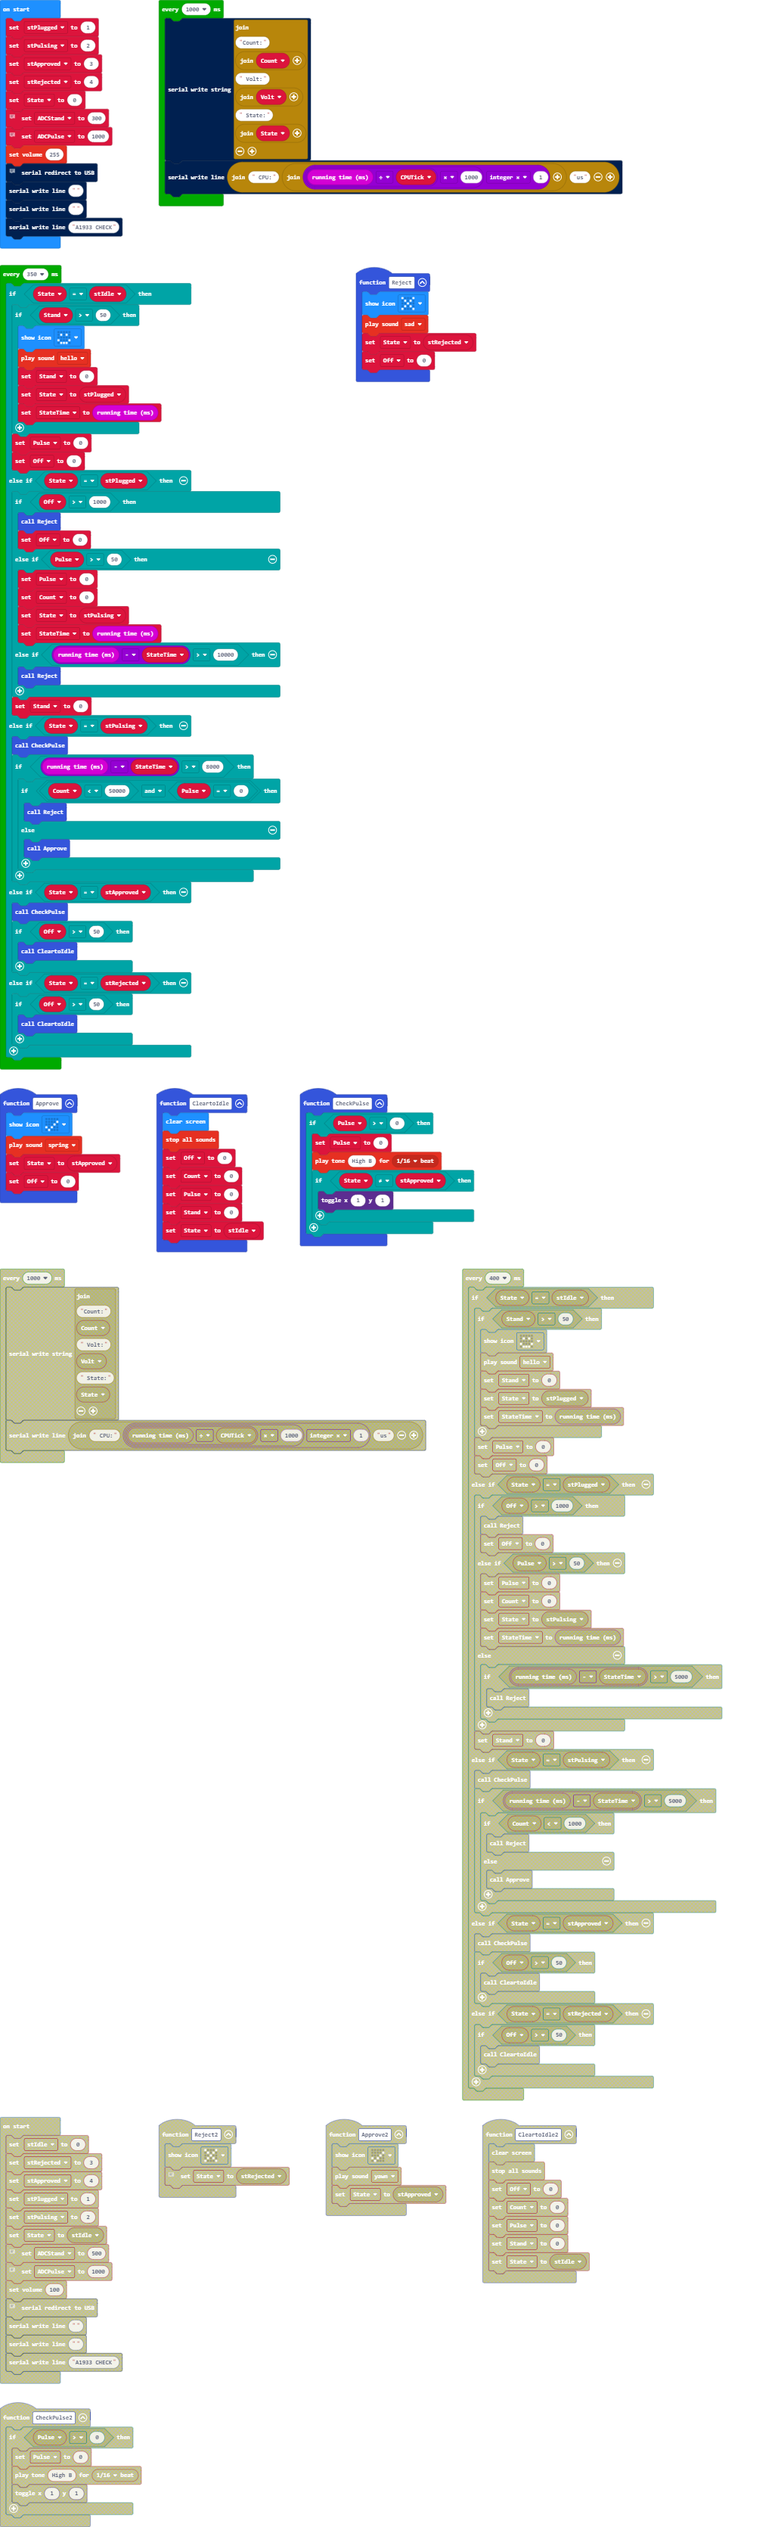
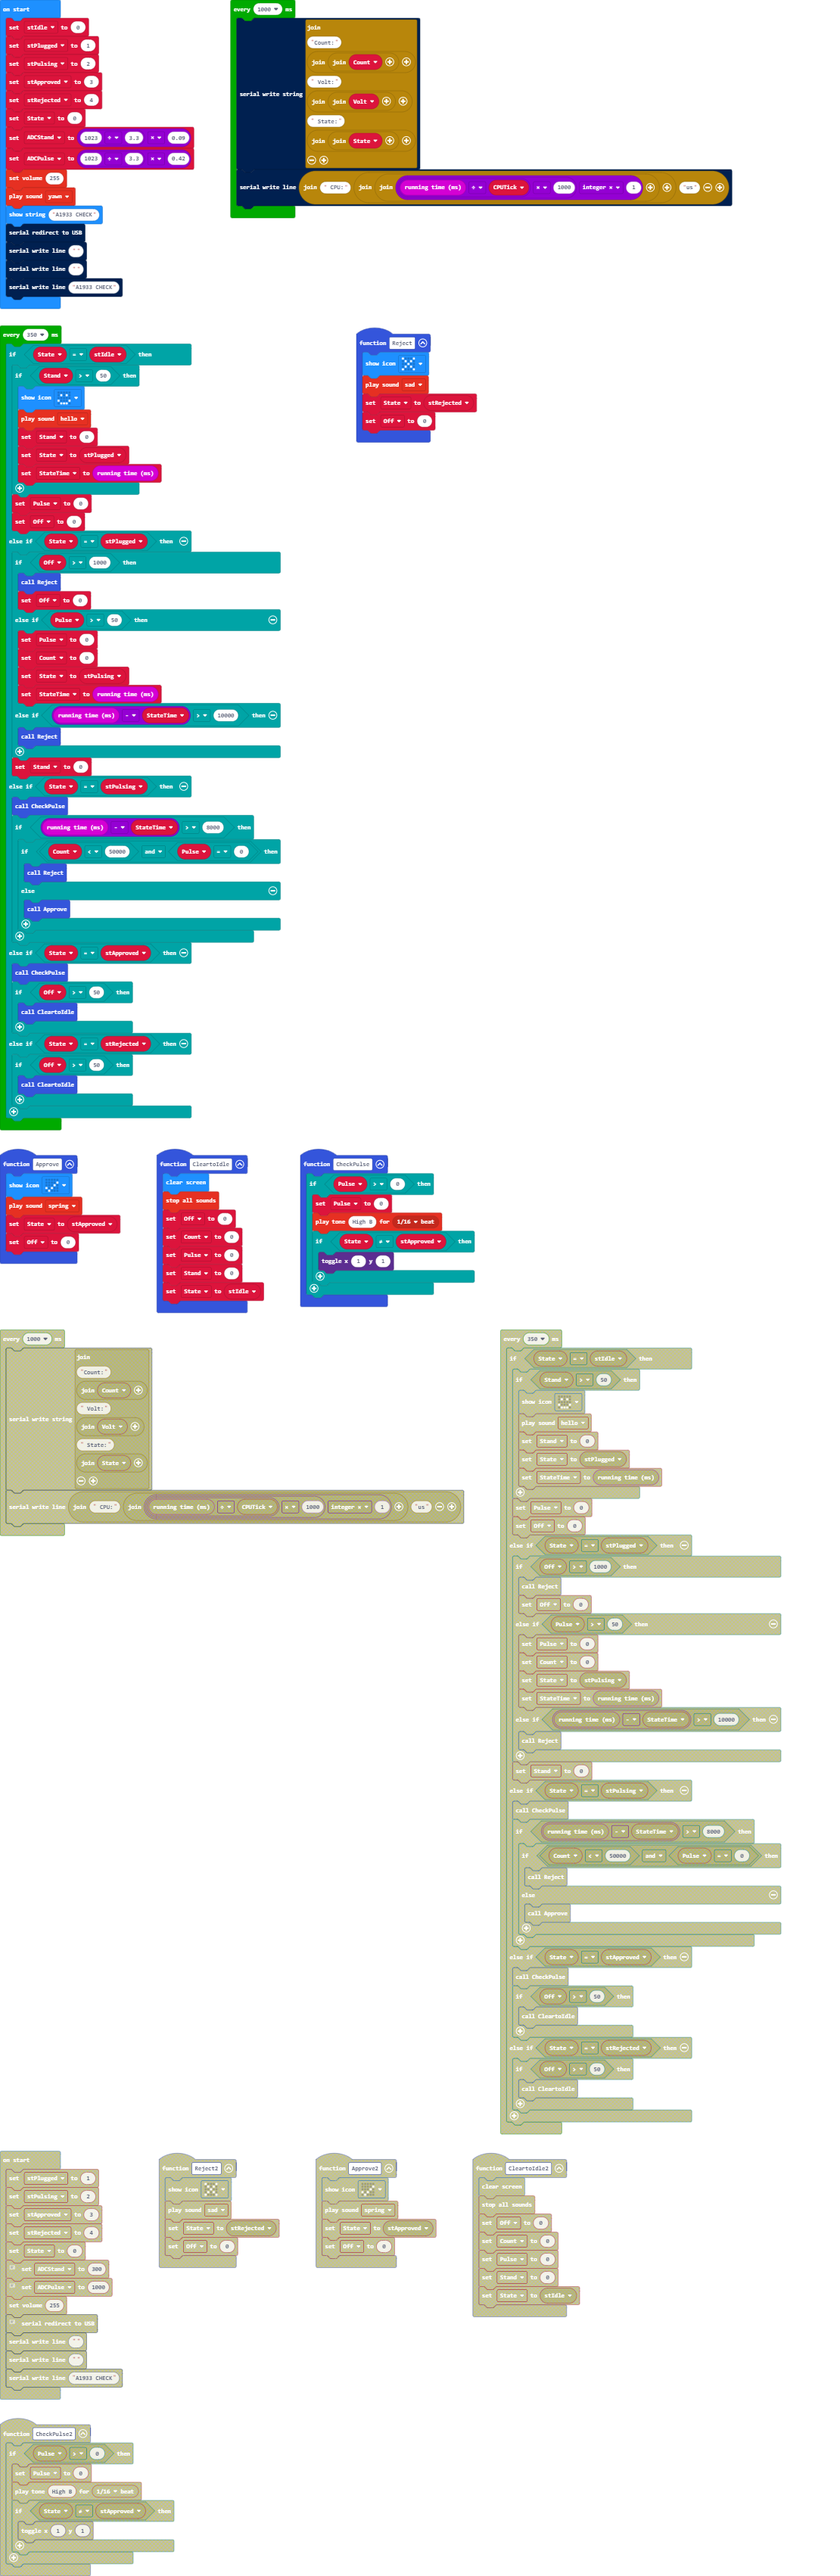
Update main.blocks, main.ts, main.py

Changed region(s): [[0.0, 0.0, 0.9293, 0.903], [0.0, 0.8096, 0.2168, 1.0]]

diff --git a/main.ts b/main.ts
@@ -34,7 +34,6 @@ function CheckPulse () {
 let StateTime = 0
 let CPUTick = 0
 let Volt = 0
-let stIdle = 0
 let Stand = 0
 let Pulse = 0
 let Count = 0
@@ -42,17 +41,18 @@ let Off = 0
 let State = 0
 let stRejected = 0
 let stApproved = 0
+let stIdle = 0
+stIdle = 0
 let stPlugged = 1
 let stPulsing = 2
 stApproved = 3
 stRejected = 4
 State = 0
-// 1023 / 3.3 * 0.6
-let ADCStand = 300
-// 1023 / 3.3 * 2
-let ADCPulse = 1000
+let ADCStand = 1023 / 3.3 * 0.09
+let ADCPulse = 1023 / 3.3 * 0.42
 music.setVolume(255)
-// basic.showString("A1933 CHECK")
+soundExpression.yawn.play()
+basic.showString("A1933 CHECK")
 serial.redirectToUSB()
 serial.writeLine("")
 serial.writeLine("")

diff --git a/main.py b/main.py
@@ -1,8 +1,9 @@
 def Reject():
-    global State
+    global State, Off
     basic.show_icon(IconNames.NO)
     soundExpression.sad.play()
     State = stRejected
+    Off = 0
 
 def on_button_pressed_a():
     control.reset()
@@ -18,16 +19,18 @@ def CleartoIdle():
     Stand = 0
     State = stIdle
 def Approve():
-    global State
+    global State, Off
     basic.show_icon(IconNames.YES)
-    soundExpression.yawn.play()
+    soundExpression.spring.play()
     State = stApproved
+    Off = 0
 def CheckPulse():
     global Pulse
     if Pulse > 0:
         Pulse = 0
         music.play_tone(988, music.beat(BeatFraction.SIXTEENTH))
-        led.toggle(1, 1)
+        if State != stApproved:
+            led.toggle(1, 1)
 StateTime = 0
 CPUTick = 0
 Volt = 0
@@ -36,21 +39,20 @@ Pulse = 0
 Count = 0
 Off = 0
 State = 0
-stApproved = 0
 stRejected = 0
+stApproved = 0
 stIdle = 0
 stIdle = 0
 stPlugged = 1
 stPulsing = 2
-stRejected = 3
-stApproved = 4
+stApproved = 3
+stRejected = 4
 State = 0
-# 1023 / 3.3 * 0.6
-ADCStand = 300
-# 1023 / 3.3 * 2
-ADCPulse = 1000
-music.set_volume(100)
-# basic.showString("A1933 CHECK")
+ADCStand = 1023 / 3.3 * 0.09
+ADCPulse = 1023 / 3.3 * 0.42
+music.set_volume(255)
+soundExpression.yawn.play()
+basic.show_string("A1933 CHECK")
 serial.redirect_to_usb()
 serial.write_line("")
 serial.write_line("")
@@ -60,22 +62,6 @@ def on_every_interval():
     serial.write_string("Count:" + ("" + str(Count)) + " Volt:" + ("" + str(Volt)) + " State:" + ("" + str(State)))
     serial.write_line(" CPU:" + ("" + str(Math.imul(input.running_time() / CPUTick * 1000, 1))) + "us")
 loops.every_interval(1000, on_every_interval)
-
-def on_in_background():
-    global Volt, CPUTick, Pulse, Count, Stand, Off
-    while True:
-        for index in range(1000):
-            Volt = pins.analog_read_pin(AnalogPin.P0)
-            CPUTick += 1
-            if Volt > ADCPulse:
-                Pulse += 1
-                Count += 1
-            elif Volt > ADCStand:
-                Stand += 1
-            else:
-                Off += 1
-        basic.pause(0)
-control.in_background(on_in_background)
 
 def on_every_interval2():
     global Stand, State, StateTime, Pulse, Off, Count
@@ -102,7 +88,7 @@ def on_every_interval2():
         Stand = 0
     elif State == stPulsing:
         CheckPulse()
-        if input.running_time() - StateTime > 5000:
+        if input.running_time() - StateTime > 8000:
             if Count < 50000 and Pulse == 0:
                 Reject()
             else:
@@ -114,4 +100,20 @@ def on_every_interval2():
     elif State == stRejected:
         if Off > 50:
             CleartoIdle()
-loops.every_interval(400, on_every_interval2)
+loops.every_interval(350, on_every_interval2)
+
+def on_in_background():
+    global Volt, CPUTick, Pulse, Count, Stand, Off
+    while True:
+        for index in range(1000):
+            Volt = pins.analog_read_pin(AnalogPin.P0)
+            CPUTick += 1
+            if Volt > ADCPulse:
+                Pulse += 1
+                Count += 1
+            elif Volt > ADCStand:
+                Stand += 1
+            else:
+                Off += 1
+        basic.pause(0)
+control.in_background(on_in_background)
